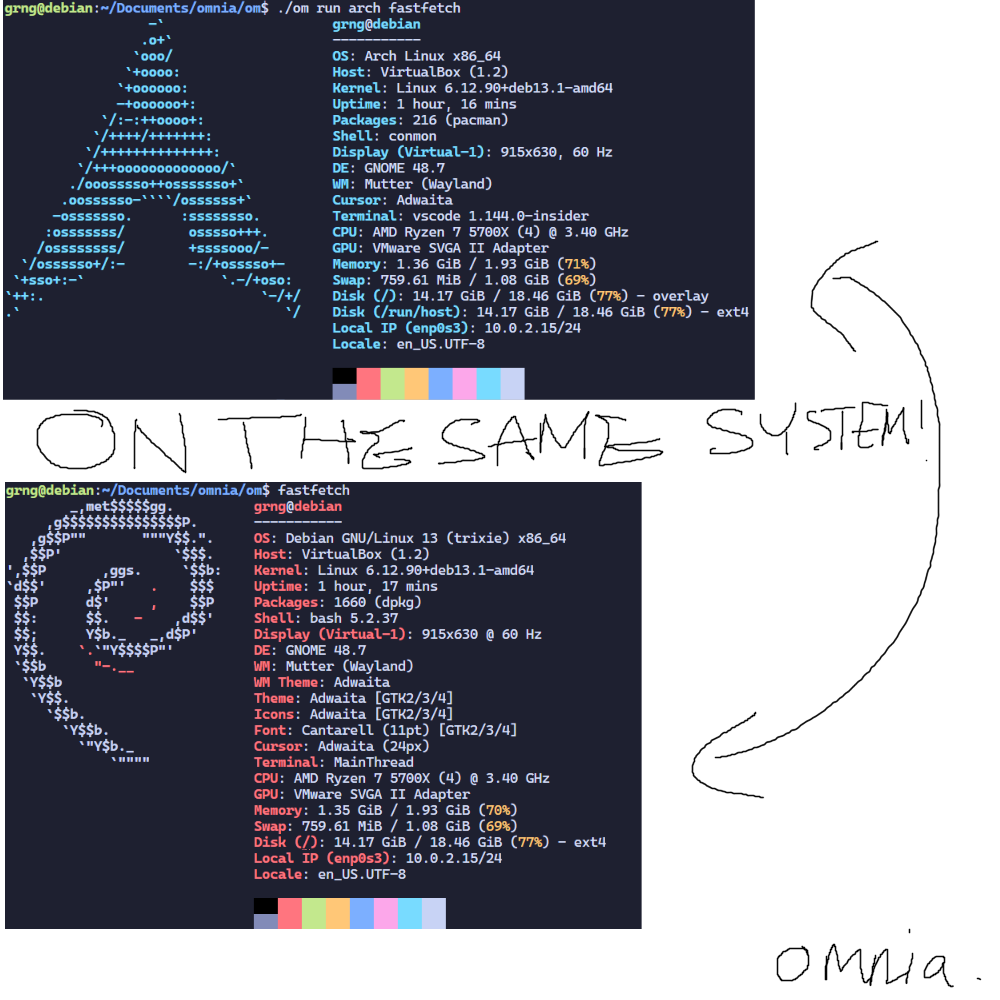
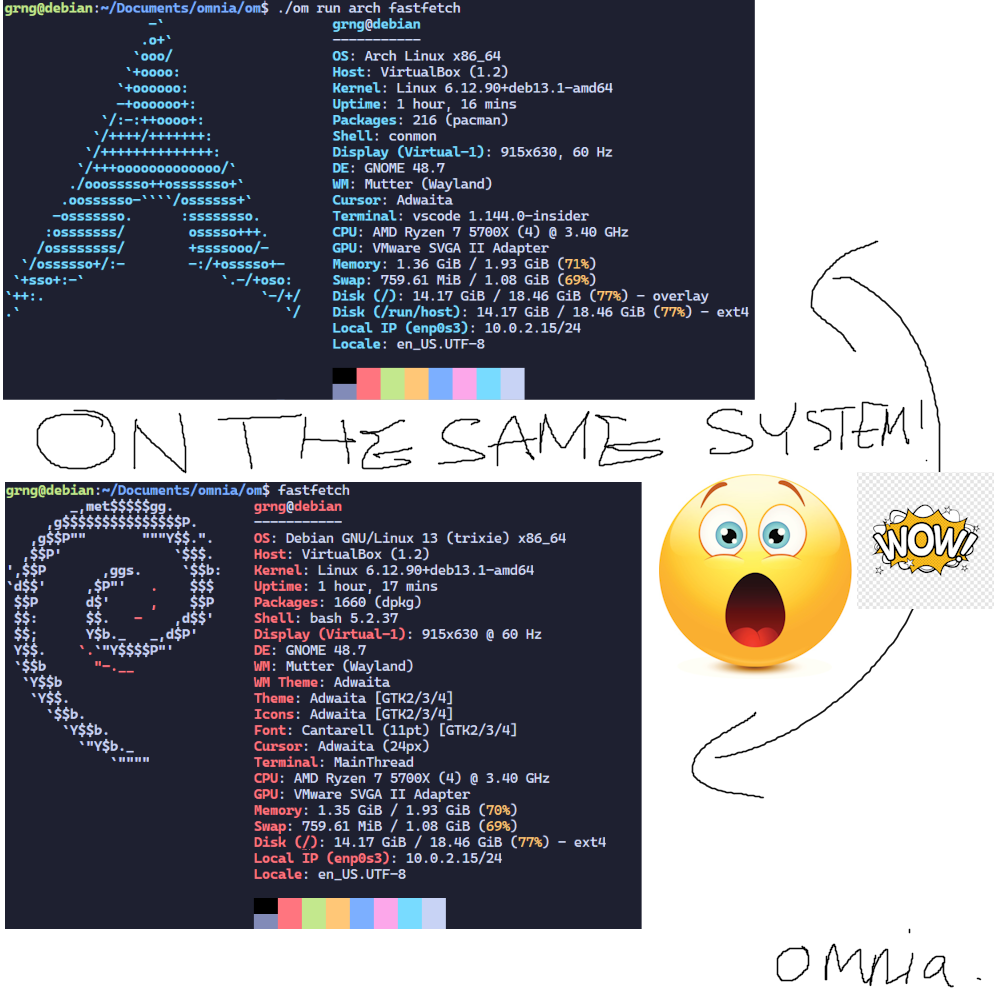
a

Changed region(s): [[0.651, 0.465, 0.992, 0.682]]

diff --git a/internal/ui/ui.go b/internal/ui/ui.go
@@ -3,6 +3,7 @@ package ui
 import (
 	"fmt"
 	"om/internal/constants"
+	"om/internal/lib/colours"
 	"strings"
 )
 
@@ -12,8 +13,11 @@ func PrintBanner() {
 ██████████
   ██  ██
 ██      ██
-██      ██
+██  ██  ██
 `, "\n")
 
-	fmt.Printf("\n%s om %s\n\n", avatar, constants.Version)
+	// fmt.Printf("\n%s om %s\n\n", colours.Green(avatar), strings.Split(constants.Version, " ")[0]+" "+colours.Green(strings.Split(constants.Version, " ")[1]))
+	// fmt.Printf("\n%s om %s %s %s\n\n", colours.Green(avatar), constants.SemanticVersion, colours.Faint("+"), colours.Green(constants.BuildNumber))
+	// fmt.Printf("\n%s om %s %s\n\n", colours.Green(avatar), constants.SemanticVersion, colours.Green(constants.BuildNumber))
+	fmt.Printf("\n%s %s %s %s\n\n", colours.Green(avatar), colours.Faint("om"), constants.SemanticVersion, colours.Green(constants.BuildNumber))
 }

diff --git a/internal/constants/constants.go b/internal/constants/constants.go
@@ -1,3 +1,5 @@
 package constants
 
-var Version = "0.0.1 [a]"
+var SemanticVersion = "0.0.1"
+var BuildNumber = "[a]"
+var Version = SemanticVersion + "+" + BuildNumber

diff --git a/internal/cli/commands/run.go b/internal/cli/commands/run.go
@@ -2,7 +2,7 @@ package commands
 
 import (
 	"om/internal/containers"
-	"om/internal/logger"
+	"om/internal/lib/logger"
 )
 
 func Run(args ...string) {

diff --git a/internal/cli/commands/install.go b/internal/cli/commands/install.go
@@ -2,7 +2,7 @@ package commands
 
 import (
 	"om/internal/containers"
-	"om/internal/logger"
+	"om/internal/lib/logger"
 	"om/internal/ui"
 )
 

diff --git a/cmd/om/main.go b/cmd/om/main.go
@@ -2,7 +2,7 @@
 
 // import (
 // 	"fmt"
-// 	"om/internal/logger"
+// 	"om/internal/lib/logger"
 // 	"os"
 // 	"strings"
 // )

diff --git a/internal/cli/commands/usage.go b/internal/cli/commands/usage.go
@@ -2,7 +2,7 @@ package commands
 
 import (
 	"fmt"
-	"om/internal/logger"
+	"om/internal/lib/logger"
 	"om/internal/ui"
 )
 

diff --git a/internal/runner/runner.go b/internal/runner/runner.go
@@ -1,7 +1,7 @@
 package runner
 
 import (
-	"om/internal/logger"
+	"om/internal/lib/logger"
 	"os"
 	"os/exec"
 )

diff --git a/README.md b/README.md
@@ -1,4 +1,5 @@
 # omnia
 (om) the package manager for package managers
 
-![om](./assets/example.png)
+![omnia](./assets/omnia.png)
+![omnia](./assets/example.png)
